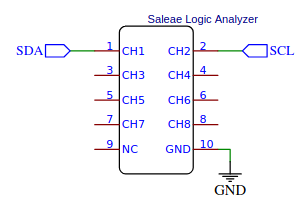
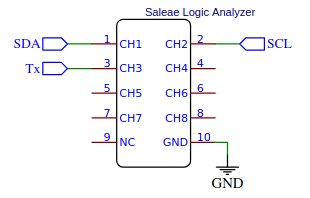
connections of saleae log. added

Changed region(s): [[0.0292, 0.0303, 0.9643, 0.9697]]

diff --git a/lab5-uart/README.md b/lab5-uart/README.md
@@ -73,32 +73,33 @@ In the lab, we are using [UART library](http://www.peterfleury.epizy.com/avr-sof
 
 2. In Visual Studio Code create a new PlatformIO project `lab5-uart` for `Arduino Uno` board and change project location to your local folder.
 
-3. IMPORTANT: Rename `LAB5-UART > src > main.cpp` file to `main.c`, ie change the extension to `.c`.
+   1. Rename `LAB5-UART > src > main.cpp` file to `main.c`, ie change the extension to `.c`.
 
-4. Copy/paste [template code](https://raw.githubusercontent.com/tomas-fryza/avr-labs/master/lab5-uart/main.c) to `LAB5-UART > src > main.c` source file.
+   2. Copy the `timer.h` header file from the previous labs to `LCD5-UART > include` folder.
 
-5. Copy the `timer.h` header file from the previous labs to `LCD5-UART > include` folder.
+   3. In PlatformIO project, create a new folder `LAB5-UART > lib > uart`. Within this folder, create two new files `uart.c` and `uart.h`. The final project structure should look like this:
 
-6. In PlatformIO project, create a new folder `LAB5-UART > lib > uart`. Within this folder, create two new files `uart.c` and `uart.h`. The final project structure should look like this:
+      ```c
+      LAB5-UART           // PlatfomIO project
+      ├── include         // Included file(s)
+      │   └── timer.h
+      ├── lib             // Libraries
+      │   └── uart        // Peter Fleury's UART library
+      │       ├── uart.c
+      │       └── uart.h
+      ├── src             // Source file(s)
+      │   └── main.c
+      ├── test            // No need this
+      └── platformio.ini  // Project Configuration File
+      ```
 
-   ```c
-   LAB5-UART           // PlatfomIO project
-   ├── include         // Included file(s)
-   │   └── timer.h
-   ├── lib             // Libraries
-   │   └── uart        // Peter Fleury's UART library
-   │       ├── uart.c
-   │       └── uart.h
-   ├── src             // Source file(s)
-   │   └── main.c
-   ├── test            // No need this
-   └── platformio.ini  // Project Configuration File
-   ```
+   4. Copy/paste the following files:
+   
+      * [main.c](https://raw.githubusercontent.com/tomas-fryza/avr-labs/master/lab5-uart/main.c)
+      * [uart.c](https://raw.githubusercontent.com/tomas-fryza/avr-labs/master/library/uart/uart.c)
+      * [uart.h](https://raw.githubusercontent.com/tomas-fryza/avr-labs/master/library/uart/uart.h)
 
-   1. Copy/paste [library source file](https://raw.githubusercontent.com/tomas-fryza/avr-labs/master/library/uart/uart.c) to `uart.c`
-   2. Copy/paste [header file](https://raw.githubusercontent.com/tomas-fryza/avr-labs/master/library/uart/uart.h) to `uart.h`
-
-7. Go through the `main.c` file and make sure you understand each line. Build and upload the code to Arduino Uno board. What is the meaning of ASCII control characters `\r`, `\n`, and `\t`? Use **PlatformIO: Serial Monitor** or **PuTTY application** to receive values from Arduino board.
+3. Go through the `main.c` file and make sure you understand each line. Build and upload the code to Arduino Uno board. What is the meaning of ASCII control characters `\r`, `\n`, and `\t`? Use **PlatformIO: Serial Monitor** or **PuTTY application** to receive values from Arduino board.
 
 <!--   
    > In PuTTY, set connection type to `Serial` and check that configuration is the same as in the ATmega328P application, ie. 9600 8N1 mode. Note that, **serial line** (here COM3 on Windows) could be different. In Linux, use `dmesg` command to verify your port (such as `/dev/ttyUSB0`).
@@ -110,11 +111,12 @@ In the lab, we are using [UART library](http://www.peterfleury.epizy.com/avr-sof
    >
    > In SimulIDE, right click to ATmega328 package and select **Open Serial Monitor**. In this window you can receive data from the microcontroller, but also send them back.
 -->
-8. Configure Timer1 to overflow once per second and transmit UART string `Paris`.
 
-9. Connect the logic analyzer to the `Tx` wire. Launch the logic analyzer software Logic and **Start** the capture. Saleae Logic software offers a decoding feature to transform the captured signals into meaningful UART messages. Click to **+ button** in **Analyzers** part and setup **Async Serial** decoder.
+4. Configure Timer1 to overflow once per second and transmit UART string `Paris`.
 
-   ![logic analyzer-photo](images/logic_photo.jpg)
+5. Connect the logic analyzer to the `Tx` wire. Launch the logic analyzer software Logic and **Start** the capture. Saleae Logic software offers a decoding feature to transform the captured signals into meaningful UART messages. Click to **+ button** in **Analyzers** part and setup **Async Serial** decoder.
+
+   ![schema-saleae](images/schema-saleae-tx.png)
 
    ![Logic analyzer -- Paris](images/analyzer_paris.png)
 
